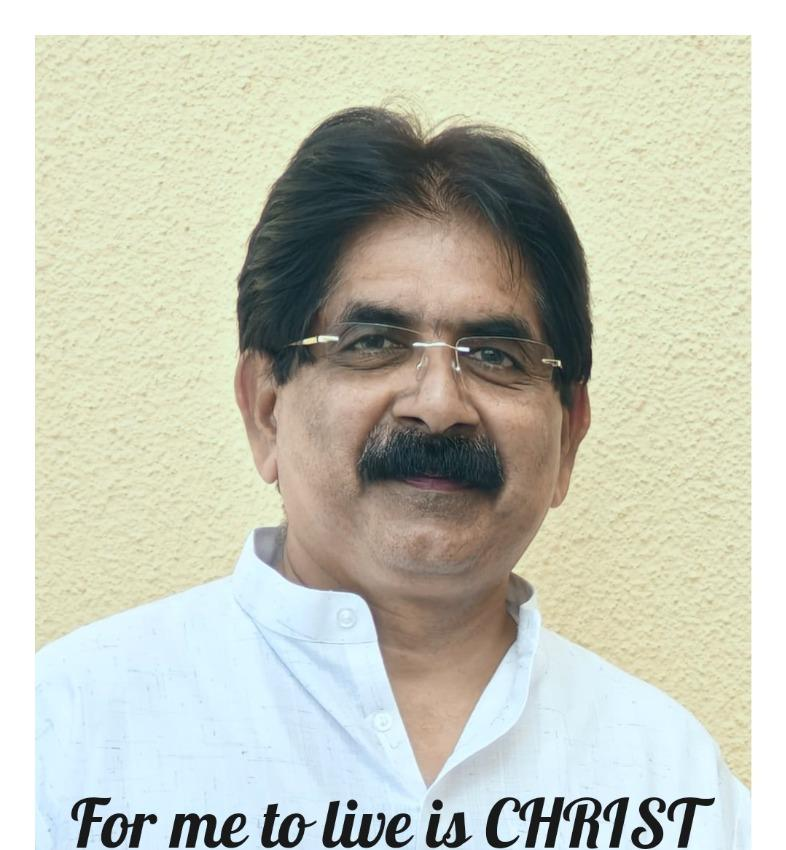
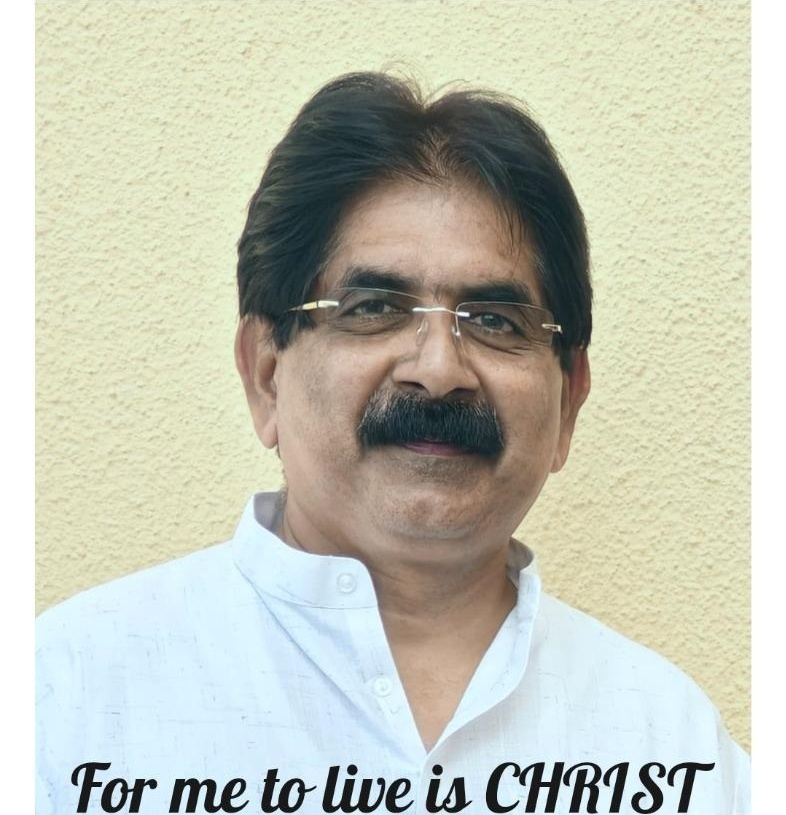
Update hero title centering, crop pastor portrait, and add Senior Pastor Raju Daniel profile

diff --git a/style.css b/style.css
@@ -436,7 +436,7 @@ h1, h2, h3, h4, h5, h6 {
 }
 
 .hero-logo-image {
-  max-width: min(780px, 95vw);
+  max-width: min(840px, 95vw);
   width: 100%;
   height: auto;
   object-fit: contain;
@@ -982,6 +982,71 @@ h1, h2, h3, h4, h5, h6 {
   border-radius: 50%;
 }
 
+.pastor-header {
+  text-align: center;
+  max-width: 600px;
+  margin: 0 auto var(--space-3xl);
+}
+
+.pastor-header .section-label {
+  color: var(--gold-500);
+  font-size: 0.8rem;
+  font-weight: 600;
+  letter-spacing: 2px;
+  text-transform: uppercase;
+  margin-bottom: var(--space-xs);
+}
+
+.pastor-header h2 {
+  font-size: clamp(2rem, 3.5vw, 2.5rem);
+  color: var(--navy-900);
+  margin-bottom: var(--space-md);
+}
+
+/* Senior Pastor Card (No photo) */
+.senior-pastor-card {
+  background: var(--white);
+  border-radius: var(--radius-lg);
+  padding: var(--space-3xl);
+  box-shadow: var(--shadow-lg);
+  border-top: 4px solid var(--gold-400);
+  position: relative;
+}
+
+.senior-pastor-card h3,
+.pastor-content h3 {
+  font-family: var(--font-heading);
+  color: var(--navy-800);
+  font-size: 1.6rem;
+  margin-bottom: 2px;
+}
+
+.pastor-badge-tag {
+  display: inline-block;
+  background: rgba(197, 165, 90, 0.15);
+  color: var(--gold-600);
+  font-size: 0.75rem;
+  font-weight: 700;
+  letter-spacing: 1.5px;
+  text-transform: uppercase;
+  padding: 4px 14px;
+  border-radius: 50px;
+  margin-bottom: var(--space-md);
+}
+
+.pastor-role {
+  color: var(--gold-500);
+  font-weight: 600;
+  font-size: 0.95rem;
+  margin-bottom: var(--space-md);
+}
+
+.leadership-divider {
+  height: 1px;
+  background: linear-gradient(90deg, transparent, rgba(197, 165, 90, 0.3), transparent);
+  margin: var(--space-4xl) 0;
+}
+
 /* Layout: photo left, text right on desktop */
 .pastor-layout {
   display: grid;
@@ -1002,44 +1067,6 @@ h1, h2, h3, h4, h5, h6 {
   height: 520px;
   object-fit: cover;
   object-position: top center;
-}
-
-.pastor-name-badge {
-  position: absolute;
-  bottom: var(--space-xl);
-  left: var(--space-xl);
-  background: rgba(10, 22, 40, 0.9);
-  backdrop-filter: blur(10px);
-  padding: var(--space-md) var(--space-xl);
-  border-radius: var(--radius-sm);
-  border-left: 3px solid var(--gold-400);
-}
-
-.pastor-name-badge h4 {
-  color: var(--white);
-  font-size: 1rem;
-  font-family: var(--font-heading);
-}
-
-.pastor-name-badge p {
-  color: var(--gold-300);
-  font-size: 0.8rem;
-  letter-spacing: 1px;
-  text-transform: uppercase;
-}
-
-.pastor-content .section-label {
-  color: var(--gold-500);
-  font-size: 0.8rem;
-  font-weight: 600;
-  letter-spacing: 2px;
-  text-transform: uppercase;
-  margin-bottom: var(--space-md);
-}
-
-.pastor-content h2 {
-  font-size: clamp(1.8rem, 3vw, 2.2rem);
-  margin-bottom: var(--space-lg);
 }
 
 .pastor-quote {
@@ -1063,10 +1090,12 @@ h1, h2, h3, h4, h5, h6 {
   font-weight: 600;
 }
 
+.senior-pastor-card p,
 .pastor-content p {
   color: var(--gray-600);
   margin-bottom: var(--space-md);
   font-size: 1rem;
+  line-height: 1.8;
 }
 
 /* ============================================
@@ -1665,6 +1694,10 @@ h1, h2, h3, h4, h5, h6 {
   }
 
   /* Pastor */
+  .senior-pastor-card {
+    padding: var(--space-xl);
+  }
+
   .pastor-image img {
     height: 320px;
   }

diff --git a/index.html b/index.html
@@ -295,25 +295,48 @@
     </div>
   </section>
 
-  <!-- ====== PASTOR'S SECTION ====== -->
+  <!-- ====== PASTOR'S & LEADERSHIP SECTION ====== -->
   <section class="pastor-section section-padding" id="pastor">
     <div class="container">
-      <div class="pastor-layout">
-        <div class="pastor-image reveal">
+      <div class="pastor-header reveal">
+        <p class="section-label">Leadership</p>
+        <h2>Our Pastoral Leadership</h2>
+        <div class="accent-line"></div>
+      </div>
+
+      <!-- Senior Pastor Raju Daniel -->
+      <div class="senior-pastor-card reveal">
+        <div class="pastor-badge-tag">Senior Pastor</div>
+        <h3>Pastor Raju Daniel</h3>
+        <p class="pastor-role">Senior Pastor, El-Shaddai Ministries</p>
+
+        <blockquote class="pastor-quote">
+          "Preaching Christ. Making Disciples. Transforming Lives."
+        </blockquote>
+
+        <p>
+          For over 25 years, Pastor Raju Daniel has faithfully dedicated his life to serving the Lord Jesus Christ with unwavering commitment, humility, and an abiding passion for advancing the Kingdom of God.
+        </p>
+        <p>
+          His ministry has been characterized by a steadfast devotion to the Holy Scriptures, a heart for people, and an unwavering desire to see lives transformed through the saving grace of Jesus Christ.
+        </p>
+        <p>
+          As the Senior Pastor of El-Shaddai Ministries, Pastor Raju Daniel has led with biblical conviction, servant-hearted leadership, and compassionate pastoral care. His ministry is founded on the authority of God's Word and the power of the Holy Spirit, equipping believers to grow in spiritual maturity and become faithful followers of Christ.
+        </p>
+      </div>
+
+      <div class="leadership-divider"></div>
+
+      <!-- Pastor in Charge Jai Jacob -->
+      <div class="pastor-layout reveal">
+        <div class="pastor-image">
           <img src="images/pastor-portrait.jpg" alt="Pastor Jai Jacob — Pastor in Charge, El-Shaddai Ministries">
-          <div class="pastor-name-badge">
-            <h4>Jai Jacob</h4>
-            <p>Pastor in Charge</p>
-          </div>
         </div>
 
-        <div class="pastor-content reveal reveal-delay-2">
-          <p class="section-label">Leadership</p>
-          <h2>Our Pastor</h2>
-          <div class="accent-line-left"></div>
-
-          <h3 style="font-family: var(--font-heading); color: var(--navy-800); font-size: 1.5rem; margin-bottom: 2px;">Jai Jacob</h3>
-          <p style="color: var(--gold-500); font-weight: 600; font-size: 0.95rem; margin-bottom: var(--space-md);">Pastor in Charge, El-Shaddai Ministries</p>
+        <div class="pastor-content">
+          <div class="pastor-badge-tag">Pastor in Charge</div>
+          <h3>Pastor Jai Jacob</h3>
+          <p class="pastor-role">Pastor in Charge, El-Shaddai Ministries</p>
 
           <blockquote class="pastor-quote">
             "For me to live is CHRIST."